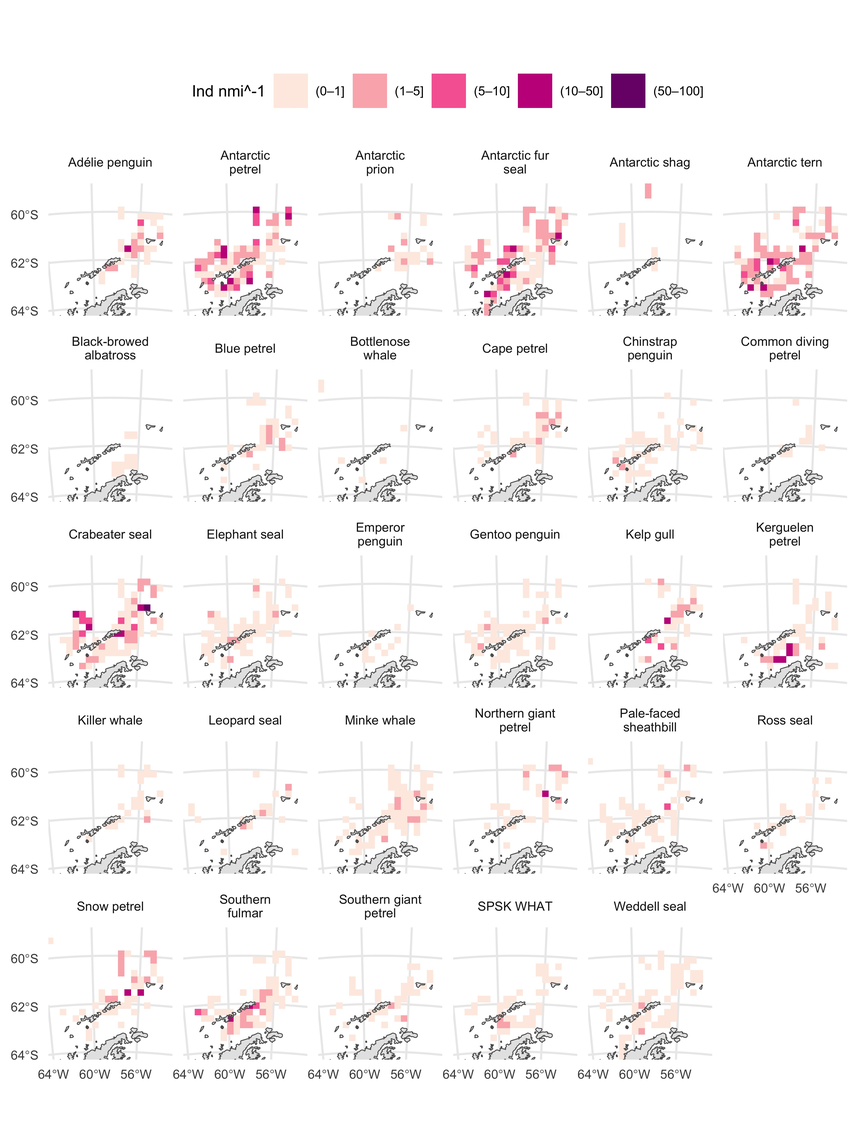
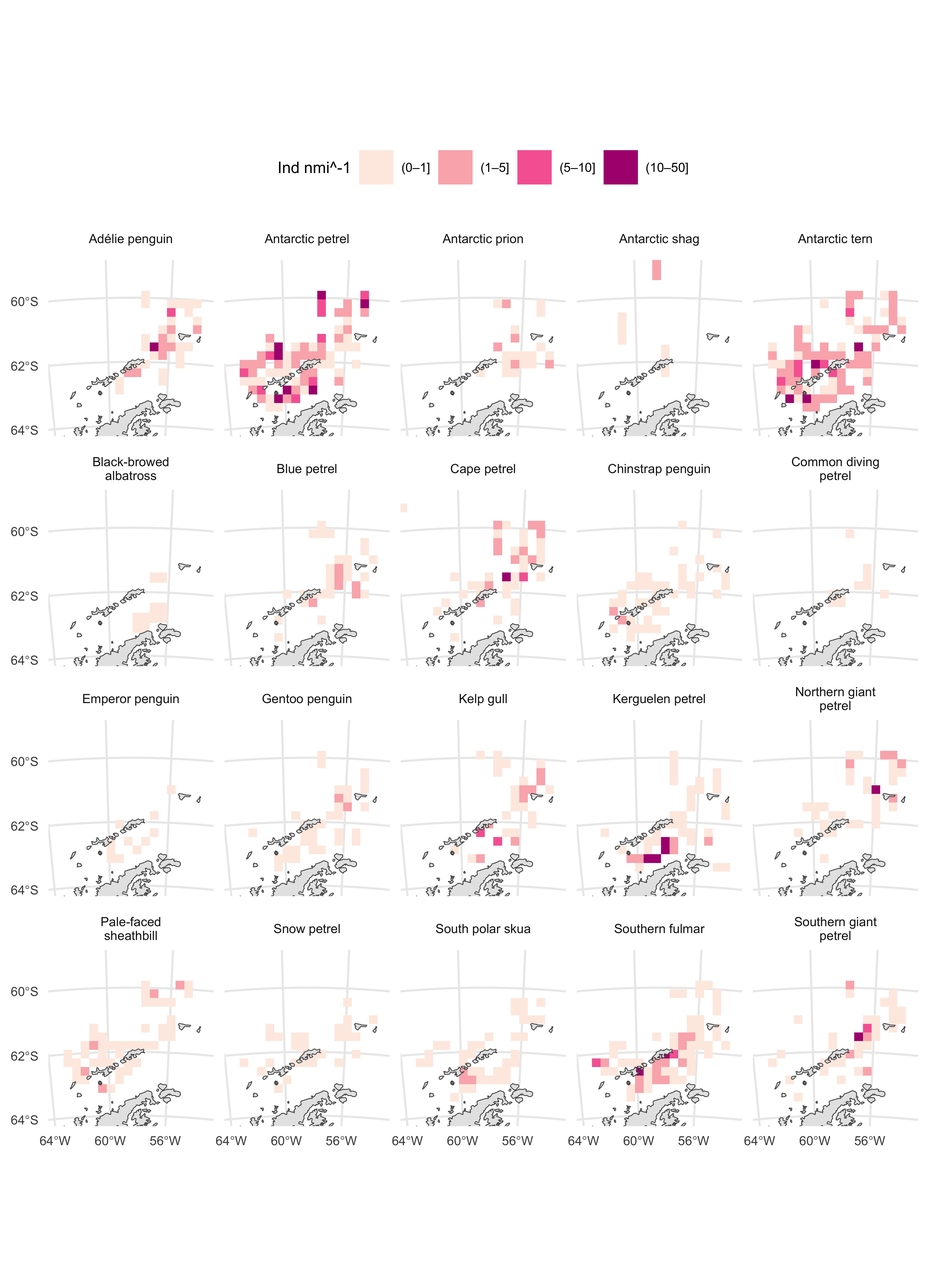
figs s1 and s2

diff --git a/docs/01_predators.html b/docs/01_predators.html
@@ -2,7 +2,7 @@
 <html xmlns="http://www.w3.org/1999/xhtml" lang="en" xml:lang="en"><head>
 
 <meta charset="utf-8">
-<meta name="generator" content="quarto-1.3.353">
+<meta name="generator" content="quarto-1.3.433">
 
 <meta name="viewport" content="width=device-width, initial-scale=1.0, user-scalable=yes">
 
@@ -360,56 +360,148 @@ pre > code.sourceCode > span > a:first-child::before { text-decoration: underlin
 <p><img src="01_predators_files/figure-html/soi_map-1.png" class="img-fluid" style="width:100.0%"></p>
 </div>
 </div>
-<p>Distribution maps of all species in all years, for supplemental.</p>
-<div class="cell page-columns page-full" data-fig.dpi="600">
+<p>Distribution maps of all species in all years, for supplemental. Organized by mammals and birds</p>
+<div class="cell">
 <details>
 <summary>Code</summary>
 <div class="sourceCode cell-code" id="cb8"><pre class="sourceCode r code-with-copy"><code class="sourceCode r"><span id="cb8-1"><a href="#cb8-1" aria-hidden="true" tabindex="-1"></a>pred_sf <span class="ot">&lt;-</span> predators_agg <span class="sc">%&gt;%</span> </span>
-<span id="cb8-2"><a href="#cb8-2" aria-hidden="true" tabindex="-1"></a>  <span class="fu">latlon_to_sf</span>(<span class="at">coords =</span> <span class="fu">c</span>(<span class="st">"lon_mean"</span>, <span class="st">"lat_mean"</span>))</span>
-<span id="cb8-3"><a href="#cb8-3" aria-hidden="true" tabindex="-1"></a></span>
-<span id="cb8-4"><a href="#cb8-4" aria-hidden="true" tabindex="-1"></a>pred_rast <span class="ot">&lt;-</span> pred_sf <span class="sc">%&gt;%</span> </span>
-<span id="cb8-5"><a href="#cb8-5" aria-hidden="true" tabindex="-1"></a>  <span class="fu">st_transform</span>(<span class="fu">ant_proj</span>()) <span class="sc">%&gt;%</span> </span>
-<span id="cb8-6"><a href="#cb8-6" aria-hidden="true" tabindex="-1"></a>  <span class="fu">mutate</span>(<span class="at">year_species =</span> <span class="fu">interaction</span>(year, species)) <span class="sc">%&gt;%</span> </span>
-<span id="cb8-7"><a href="#cb8-7" aria-hidden="true" tabindex="-1"></a>  <span class="fu">rasterize</span>(rast_template, </span>
-<span id="cb8-8"><a href="#cb8-8" aria-hidden="true" tabindex="-1"></a>            <span class="at">field =</span> <span class="st">"count"</span>,</span>
-<span id="cb8-9"><a href="#cb8-9" aria-hidden="true" tabindex="-1"></a>            <span class="at">by =</span> <span class="st">"year_species"</span>,</span>
-<span id="cb8-10"><a href="#cb8-10" aria-hidden="true" tabindex="-1"></a>            <span class="at">fun =</span> sum)</span>
-<span id="cb8-11"><a href="#cb8-11" aria-hidden="true" tabindex="-1"></a></span>
-<span id="cb8-12"><a href="#cb8-12" aria-hidden="true" tabindex="-1"></a>map_bbox <span class="ot">&lt;-</span> <span class="fu">ext</span>(<span class="sc">-</span><span class="dv">63</span>, <span class="sc">-</span><span class="dv">54</span>, <span class="sc">-</span><span class="dv">64</span>, <span class="sc">-</span><span class="dv">59</span>) <span class="sc">%&gt;%</span> </span>
-<span id="cb8-13"><a href="#cb8-13" aria-hidden="true" tabindex="-1"></a>  <span class="fu">project</span>(<span class="at">from =</span> <span class="st">"+proj=longlat +datum=WGS84"</span>,</span>
-<span id="cb8-14"><a href="#cb8-14" aria-hidden="true" tabindex="-1"></a>          <span class="at">to =</span> <span class="fu">as.character</span>(<span class="fu">ant_proj</span>())[[<span class="dv">1</span>]])</span>
-<span id="cb8-15"><a href="#cb8-15" aria-hidden="true" tabindex="-1"></a></span>
-<span id="cb8-16"><a href="#cb8-16" aria-hidden="true" tabindex="-1"></a>pred_class <span class="ot">&lt;-</span> pred_rast <span class="sc">%&gt;%</span> </span>
-<span id="cb8-17"><a href="#cb8-17" aria-hidden="true" tabindex="-1"></a>  <span class="fu">classify</span>(<span class="at">rcl =</span> <span class="fu">c</span>(<span class="dv">0</span>, <span class="dv">1</span>, <span class="dv">5</span>, <span class="dv">10</span>, <span class="dv">50</span>, <span class="dv">100</span>, <span class="dv">1000</span>))</span>
-<span id="cb8-18"><a href="#cb8-18" aria-hidden="true" tabindex="-1"></a></span>
-<span id="cb8-19"><a href="#cb8-19" aria-hidden="true" tabindex="-1"></a>pred_class_df <span class="ot">&lt;-</span> <span class="fu">as.data.frame</span>(pred_class, <span class="at">xy =</span> <span class="cn">TRUE</span>) <span class="sc">%&gt;%</span> </span>
-<span id="cb8-20"><a href="#cb8-20" aria-hidden="true" tabindex="-1"></a>  <span class="fu">pivot_longer</span>(<span class="sc">-</span><span class="fu">c</span>(<span class="st">"x"</span>, <span class="st">"y"</span>), </span>
-<span id="cb8-21"><a href="#cb8-21" aria-hidden="true" tabindex="-1"></a>               <span class="at">names_to =</span> <span class="st">"name"</span>, </span>
-<span id="cb8-22"><a href="#cb8-22" aria-hidden="true" tabindex="-1"></a>               <span class="at">values_to =</span> <span class="st">"count"</span>) <span class="sc">%&gt;%</span> </span>
-<span id="cb8-23"><a href="#cb8-23" aria-hidden="true" tabindex="-1"></a>  <span class="fu">separate_wider_delim</span>(name, </span>
-<span id="cb8-24"><a href="#cb8-24" aria-hidden="true" tabindex="-1"></a>                       <span class="at">delim =</span> <span class="st">"."</span>, </span>
-<span id="cb8-25"><a href="#cb8-25" aria-hidden="true" tabindex="-1"></a>                       <span class="at">names =</span> <span class="fu">c</span>(<span class="st">"year"</span>, <span class="st">"species"</span>)) <span class="sc">%&gt;%</span> </span>
-<span id="cb8-26"><a href="#cb8-26" aria-hidden="true" tabindex="-1"></a>  <span class="fu">drop_na</span>(count)</span>
-<span id="cb8-27"><a href="#cb8-27" aria-hidden="true" tabindex="-1"></a></span>
-<span id="cb8-28"><a href="#cb8-28" aria-hidden="true" tabindex="-1"></a><span class="fu">ant_basemap</span>() <span class="sc">+</span></span>
-<span id="cb8-29"><a href="#cb8-29" aria-hidden="true" tabindex="-1"></a>  <span class="fu">geom_raster</span>(<span class="fu">aes</span>(x, y, <span class="at">fill =</span> count), pred_class_df) <span class="sc">+</span></span>
-<span id="cb8-30"><a href="#cb8-30" aria-hidden="true" tabindex="-1"></a>  <span class="fu">geom_sf</span>(<span class="at">data =</span> <span class="fu">tar_read</span>(<span class="st">"ant_sf"</span>, <span class="at">store =</span> here<span class="sc">::</span><span class="fu">here</span>(<span class="st">"_targets"</span>))) <span class="sc">+</span></span>
-<span id="cb8-31"><a href="#cb8-31" aria-hidden="true" tabindex="-1"></a>  <span class="fu">scale_fill_brewer</span>(<span class="at">palette =</span> <span class="st">"RdPu"</span>, </span>
-<span id="cb8-32"><a href="#cb8-32" aria-hidden="true" tabindex="-1"></a>                    <span class="at">na.value =</span> <span class="cn">NA</span>, </span>
-<span id="cb8-33"><a href="#cb8-33" aria-hidden="true" tabindex="-1"></a>                    <span class="at">direction =</span> <span class="dv">1</span>,</span>
-<span id="cb8-34"><a href="#cb8-34" aria-hidden="true" tabindex="-1"></a>                    <span class="at">na.translate =</span> <span class="cn">FALSE</span>) <span class="sc">+</span></span>
-<span id="cb8-35"><a href="#cb8-35" aria-hidden="true" tabindex="-1"></a>  <span class="fu">scale_x_continuous</span>(<span class="at">breaks =</span> <span class="fu">seq</span>(<span class="sc">-</span><span class="dv">64</span>, <span class="sc">-</span><span class="dv">54</span>, <span class="at">by =</span> <span class="dv">4</span>)) <span class="sc">+</span></span>
-<span id="cb8-36"><a href="#cb8-36" aria-hidden="true" tabindex="-1"></a>  <span class="fu">scale_y_continuous</span>(<span class="at">breaks =</span> <span class="fu">seq</span>(<span class="sc">-</span><span class="dv">64</span>, <span class="sc">-</span><span class="dv">59</span>, <span class="at">by =</span> <span class="dv">2</span>)) <span class="sc">+</span></span>
-<span id="cb8-37"><a href="#cb8-37" aria-hidden="true" tabindex="-1"></a>  <span class="fu">labs</span>(<span class="at">fill =</span> <span class="st">"Ind nmi^-1"</span>) <span class="sc">+</span></span>
-<span id="cb8-38"><a href="#cb8-38" aria-hidden="true" tabindex="-1"></a>  <span class="fu">facet_grid</span>(species <span class="sc">~</span> year) <span class="sc">+</span></span>
-<span id="cb8-39"><a href="#cb8-39" aria-hidden="true" tabindex="-1"></a>  <span class="fu">coord_sf</span>(<span class="at">xlim =</span> map_bbox[<span class="dv">1</span><span class="sc">:</span><span class="dv">2</span>],</span>
-<span id="cb8-40"><a href="#cb8-40" aria-hidden="true" tabindex="-1"></a>           <span class="at">ylim =</span> map_bbox[<span class="dv">3</span><span class="sc">:</span><span class="dv">4</span>],</span>
-<span id="cb8-41"><a href="#cb8-41" aria-hidden="true" tabindex="-1"></a>           <span class="at">crs =</span> <span class="fu">ant_proj</span>()) <span class="sc">+</span></span>
-<span id="cb8-42"><a href="#cb8-42" aria-hidden="true" tabindex="-1"></a>  <span class="fu">theme</span>(<span class="at">legend.position =</span> <span class="st">"right"</span>,</span>
-<span id="cb8-43"><a href="#cb8-43" aria-hidden="true" tabindex="-1"></a>        <span class="at">text =</span> <span class="fu">element_text</span>(<span class="at">size =</span> <span class="dv">8</span>))</span></code><button title="Copy to Clipboard" class="code-copy-button"><i class="bi"></i></button></pre></div>
+<span id="cb8-2"><a href="#cb8-2" aria-hidden="true" tabindex="-1"></a>  <span class="fu">filter</span>(<span class="sc">!</span><span class="fu">str_starts</span>(species, <span class="st">"U"</span>)) <span class="sc">%&gt;%</span> </span>
+<span id="cb8-3"><a href="#cb8-3" aria-hidden="true" tabindex="-1"></a>  <span class="fu">mutate</span>(<span class="at">common_name =</span> <span class="fu">code_to_common</span>(species)) <span class="sc">%&gt;%</span> </span>
+<span id="cb8-4"><a href="#cb8-4" aria-hidden="true" tabindex="-1"></a>  <span class="fu">latlon_to_sf</span>(<span class="at">coords =</span> <span class="fu">c</span>(<span class="st">"lon_mean"</span>, <span class="st">"lat_mean"</span>))</span>
+<span id="cb8-5"><a href="#cb8-5" aria-hidden="true" tabindex="-1"></a></span>
+<span id="cb8-6"><a href="#cb8-6" aria-hidden="true" tabindex="-1"></a>pred_rast <span class="ot">&lt;-</span> pred_sf <span class="sc">%&gt;%</span> </span>
+<span id="cb8-7"><a href="#cb8-7" aria-hidden="true" tabindex="-1"></a>  <span class="fu">st_transform</span>(<span class="fu">ant_proj</span>()) <span class="sc">%&gt;%</span> </span>
+<span id="cb8-8"><a href="#cb8-8" aria-hidden="true" tabindex="-1"></a>  <span class="fu">mutate</span>(<span class="at">year_commonname =</span> <span class="fu">interaction</span>(year, common_name)) <span class="sc">%&gt;%</span> </span>
+<span id="cb8-9"><a href="#cb8-9" aria-hidden="true" tabindex="-1"></a>  <span class="fu">rasterize</span>(rast_template, </span>
+<span id="cb8-10"><a href="#cb8-10" aria-hidden="true" tabindex="-1"></a>            <span class="at">field =</span> <span class="st">"count"</span>,</span>
+<span id="cb8-11"><a href="#cb8-11" aria-hidden="true" tabindex="-1"></a>            <span class="at">by =</span> <span class="st">"year_commonname"</span>,</span>
+<span id="cb8-12"><a href="#cb8-12" aria-hidden="true" tabindex="-1"></a>            <span class="at">fun =</span> sum)</span>
+<span id="cb8-13"><a href="#cb8-13" aria-hidden="true" tabindex="-1"></a></span>
+<span id="cb8-14"><a href="#cb8-14" aria-hidden="true" tabindex="-1"></a><span class="co"># Normalize counts by effort</span></span>
+<span id="cb8-15"><a href="#cb8-15" aria-hidden="true" tabindex="-1"></a>pred_norm <span class="ot">&lt;-</span> pred_rast</span>
+<span id="cb8-16"><a href="#cb8-16" aria-hidden="true" tabindex="-1"></a><span class="cf">for</span> (i <span class="cf">in</span> <span class="fu">seq</span>(<span class="fu">nlyr</span>(pred_rast))) {</span>
+<span id="cb8-17"><a href="#cb8-17" aria-hidden="true" tabindex="-1"></a>  lyr_name <span class="ot">&lt;-</span> <span class="fu">names</span>(pred_rast)[i]</span>
+<span id="cb8-18"><a href="#cb8-18" aria-hidden="true" tabindex="-1"></a>  lyr_year <span class="ot">&lt;-</span> <span class="fu">substr</span>(lyr_name, <span class="dv">1</span>, <span class="dv">4</span>)</span>
+<span id="cb8-19"><a href="#cb8-19" aria-hidden="true" tabindex="-1"></a>  effort_year <span class="ot">&lt;-</span> effort_rast[lyr_year] <span class="sc">%&gt;%</span> </span>
+<span id="cb8-20"><a href="#cb8-20" aria-hidden="true" tabindex="-1"></a>    <span class="fu">subst</span>(<span class="dv">0</span>, <span class="cn">NA</span>)</span>
+<span id="cb8-21"><a href="#cb8-21" aria-hidden="true" tabindex="-1"></a>  pred_norm[[i]] <span class="ot">&lt;-</span> pred_norm[[i]] <span class="sc">/</span> effort_year</span>
+<span id="cb8-22"><a href="#cb8-22" aria-hidden="true" tabindex="-1"></a>}</span>
+<span id="cb8-23"><a href="#cb8-23" aria-hidden="true" tabindex="-1"></a><span class="co"># Average across years</span></span>
+<span id="cb8-24"><a href="#cb8-24" aria-hidden="true" tabindex="-1"></a>pred_climatology <span class="ot">&lt;-</span> <span class="fu">unique</span>(<span class="fu">code_to_common</span>(pred_sf<span class="sc">$</span>species)) <span class="sc">%&gt;%</span> </span>
+<span id="cb8-25"><a href="#cb8-25" aria-hidden="true" tabindex="-1"></a>  <span class="fu">map</span>(<span class="cf">function</span>(sp) {</span>
+<span id="cb8-26"><a href="#cb8-26" aria-hidden="true" tabindex="-1"></a>    sp_rast <span class="ot">&lt;-</span> <span class="fu">subset</span>(pred_norm, </span>
+<span id="cb8-27"><a href="#cb8-27" aria-hidden="true" tabindex="-1"></a>                      <span class="fu">which</span>(<span class="fu">str_detect</span>(<span class="fu">names</span>(pred_norm), sp)))</span>
+<span id="cb8-28"><a href="#cb8-28" aria-hidden="true" tabindex="-1"></a>    <span class="fu">mean</span>(sp_rast, <span class="at">na.rm =</span> <span class="cn">TRUE</span>)</span>
+<span id="cb8-29"><a href="#cb8-29" aria-hidden="true" tabindex="-1"></a>  }) <span class="sc">%&gt;%</span> </span>
+<span id="cb8-30"><a href="#cb8-30" aria-hidden="true" tabindex="-1"></a>  <span class="fu">set_names</span>(<span class="fu">unique</span>(pred_sf<span class="sc">$</span>common_name)) <span class="sc">%&gt;%</span> </span>
+<span id="cb8-31"><a href="#cb8-31" aria-hidden="true" tabindex="-1"></a>  <span class="fu">rast</span>()</span>
+<span id="cb8-32"><a href="#cb8-32" aria-hidden="true" tabindex="-1"></a></span>
+<span id="cb8-33"><a href="#cb8-33" aria-hidden="true" tabindex="-1"></a>map_bbox <span class="ot">&lt;-</span> <span class="fu">ext</span>(<span class="sc">-</span><span class="dv">63</span>, <span class="sc">-</span><span class="dv">54</span>, <span class="sc">-</span><span class="dv">64</span>, <span class="sc">-</span><span class="dv">59</span>) <span class="sc">%&gt;%</span> </span>
+<span id="cb8-34"><a href="#cb8-34" aria-hidden="true" tabindex="-1"></a>  <span class="fu">project</span>(<span class="at">from =</span> <span class="st">"+proj=longlat +datum=WGS84"</span>,</span>
+<span id="cb8-35"><a href="#cb8-35" aria-hidden="true" tabindex="-1"></a>          <span class="at">to =</span> <span class="fu">as.character</span>(<span class="fu">ant_proj</span>())[[<span class="dv">1</span>]])</span>
+<span id="cb8-36"><a href="#cb8-36" aria-hidden="true" tabindex="-1"></a></span>
+<span id="cb8-37"><a href="#cb8-37" aria-hidden="true" tabindex="-1"></a>pred_class <span class="ot">&lt;-</span> pred_climatology <span class="sc">%&gt;%</span> </span>
+<span id="cb8-38"><a href="#cb8-38" aria-hidden="true" tabindex="-1"></a>  <span class="fu">classify</span>(<span class="at">rcl =</span> <span class="fu">c</span>(<span class="dv">0</span>, <span class="dv">1</span>, <span class="dv">5</span>, <span class="dv">10</span>, <span class="dv">50</span>, <span class="dv">100</span>, <span class="dv">1000</span>))</span>
+<span id="cb8-39"><a href="#cb8-39" aria-hidden="true" tabindex="-1"></a></span>
+<span id="cb8-40"><a href="#cb8-40" aria-hidden="true" tabindex="-1"></a>pred_class_df <span class="ot">&lt;-</span> <span class="fu">as.data.frame</span>(pred_class, <span class="at">xy =</span> <span class="cn">TRUE</span>) <span class="sc">%&gt;%</span> </span>
+<span id="cb8-41"><a href="#cb8-41" aria-hidden="true" tabindex="-1"></a>  <span class="fu">pivot_longer</span>(<span class="sc">-</span><span class="fu">c</span>(<span class="st">"x"</span>, <span class="st">"y"</span>), </span>
+<span id="cb8-42"><a href="#cb8-42" aria-hidden="true" tabindex="-1"></a>               <span class="at">names_to =</span> <span class="st">"name"</span>, </span>
+<span id="cb8-43"><a href="#cb8-43" aria-hidden="true" tabindex="-1"></a>               <span class="at">values_to =</span> <span class="st">"count"</span>) <span class="sc">%&gt;%</span> </span>
+<span id="cb8-44"><a href="#cb8-44" aria-hidden="true" tabindex="-1"></a>  <span class="fu">drop_na</span>(count) <span class="sc">%&gt;%</span> </span>
+<span id="cb8-45"><a href="#cb8-45" aria-hidden="true" tabindex="-1"></a>  <span class="fu">mutate</span>(<span class="at">name =</span> <span class="fu">map_chr</span>(name, \(n) <span class="fu">paste</span>(<span class="fu">strwrap</span>(n, <span class="dv">20</span>), <span class="at">collapse =</span> <span class="st">"</span><span class="sc">\n</span><span class="st">"</span>)))</span></code><button title="Copy to Clipboard" class="code-copy-button"><i class="bi"></i></button></pre></div>
+</details>
+</div>
+<div class="cell page-columns page-full" data-fig.dpi="600">
+<details>
+<summary>Code</summary>
+<div class="sourceCode cell-code" id="cb9"><pre class="sourceCode r code-with-copy"><code class="sourceCode r"><span id="cb9-1"><a href="#cb9-1" aria-hidden="true" tabindex="-1"></a>bird_class_df <span class="ot">&lt;-</span> pred_class_df <span class="sc">%&gt;%</span> </span>
+<span id="cb9-2"><a href="#cb9-2" aria-hidden="true" tabindex="-1"></a>  <span class="fu">semi_join</span>(<span class="fu">tibble</span>(<span class="at">name =</span> <span class="fu">c</span>(</span>
+<span id="cb9-3"><a href="#cb9-3" aria-hidden="true" tabindex="-1"></a>    <span class="st">"Blue petrel"</span>,</span>
+<span id="cb9-4"><a href="#cb9-4" aria-hidden="true" tabindex="-1"></a>    <span class="st">"Antarctic shag"</span>,</span>
+<span id="cb9-5"><a href="#cb9-5" aria-hidden="true" tabindex="-1"></a>    <span class="st">"Cape petrel"</span>,</span>
+<span id="cb9-6"><a href="#cb9-6" aria-hidden="true" tabindex="-1"></a>    <span class="st">"Kelp gull"</span>,</span>
+<span id="cb9-7"><a href="#cb9-7" aria-hidden="true" tabindex="-1"></a>    <span class="st">"Antarctic petrel"</span>,</span>
+<span id="cb9-8"><a href="#cb9-8" aria-hidden="true" tabindex="-1"></a>    <span class="st">"Southern giant</span><span class="sc">\n</span><span class="st">petrel"</span>,</span>
+<span id="cb9-9"><a href="#cb9-9" aria-hidden="true" tabindex="-1"></a>    <span class="st">"Adélie penguin"</span>,</span>
+<span id="cb9-10"><a href="#cb9-10" aria-hidden="true" tabindex="-1"></a>    <span class="st">"Kerguelen petrel"</span>,</span>
+<span id="cb9-11"><a href="#cb9-11" aria-hidden="true" tabindex="-1"></a>    <span class="st">"Gentoo penguin"</span>,</span>
+<span id="cb9-12"><a href="#cb9-12" aria-hidden="true" tabindex="-1"></a>    <span class="st">"Antarctic tern"</span>,</span>
+<span id="cb9-13"><a href="#cb9-13" aria-hidden="true" tabindex="-1"></a>    <span class="st">"Northern giant</span><span class="sc">\n</span><span class="st">petrel"</span>,</span>
+<span id="cb9-14"><a href="#cb9-14" aria-hidden="true" tabindex="-1"></a>    <span class="st">"Pale-faced</span><span class="sc">\n</span><span class="st">sheathbill"</span>,</span>
+<span id="cb9-15"><a href="#cb9-15" aria-hidden="true" tabindex="-1"></a>    <span class="st">"Chinstrap penguin"</span>,</span>
+<span id="cb9-16"><a href="#cb9-16" aria-hidden="true" tabindex="-1"></a>    <span class="st">"Southern fulmar"</span>,</span>
+<span id="cb9-17"><a href="#cb9-17" aria-hidden="true" tabindex="-1"></a>    <span class="st">"Antarctic prion"</span>,</span>
+<span id="cb9-18"><a href="#cb9-18" aria-hidden="true" tabindex="-1"></a>    <span class="st">"Common diving</span><span class="sc">\n</span><span class="st">petrel"</span>,</span>
+<span id="cb9-19"><a href="#cb9-19" aria-hidden="true" tabindex="-1"></a>    <span class="st">"South polar skua"</span>,</span>
+<span id="cb9-20"><a href="#cb9-20" aria-hidden="true" tabindex="-1"></a>    <span class="st">"Snow petrel"</span>,</span>
+<span id="cb9-21"><a href="#cb9-21" aria-hidden="true" tabindex="-1"></a>    <span class="st">"Emperor penguin"</span>,</span>
+<span id="cb9-22"><a href="#cb9-22" aria-hidden="true" tabindex="-1"></a>    <span class="st">"Black-browed</span><span class="sc">\n</span><span class="st">albatross"</span></span>
+<span id="cb9-23"><a href="#cb9-23" aria-hidden="true" tabindex="-1"></a>  )), <span class="at">by =</span> <span class="st">"name"</span>) </span>
+<span id="cb9-24"><a href="#cb9-24" aria-hidden="true" tabindex="-1"></a></span>
+<span id="cb9-25"><a href="#cb9-25" aria-hidden="true" tabindex="-1"></a>p <span class="ot">&lt;-</span> <span class="fu">ant_basemap</span>() <span class="sc">+</span></span>
+<span id="cb9-26"><a href="#cb9-26" aria-hidden="true" tabindex="-1"></a>  <span class="fu">geom_raster</span>(<span class="fu">aes</span>(x, y, <span class="at">fill =</span> count), bird_class_df) <span class="sc">+</span></span>
+<span id="cb9-27"><a href="#cb9-27" aria-hidden="true" tabindex="-1"></a>  <span class="fu">geom_sf</span>(<span class="at">data =</span> ant_sf) <span class="sc">+</span></span>
+<span id="cb9-28"><a href="#cb9-28" aria-hidden="true" tabindex="-1"></a>  <span class="fu">scale_fill_brewer</span>(<span class="at">palette =</span> <span class="st">"RdPu"</span>, </span>
+<span id="cb9-29"><a href="#cb9-29" aria-hidden="true" tabindex="-1"></a>                    <span class="at">na.value =</span> <span class="cn">NA</span>, </span>
+<span id="cb9-30"><a href="#cb9-30" aria-hidden="true" tabindex="-1"></a>                    <span class="at">direction =</span> <span class="dv">1</span>,</span>
+<span id="cb9-31"><a href="#cb9-31" aria-hidden="true" tabindex="-1"></a>                    <span class="at">na.translate =</span> <span class="cn">FALSE</span>) <span class="sc">+</span></span>
+<span id="cb9-32"><a href="#cb9-32" aria-hidden="true" tabindex="-1"></a>  <span class="fu">scale_x_continuous</span>(<span class="at">breaks =</span> <span class="fu">seq</span>(<span class="sc">-</span><span class="dv">64</span>, <span class="sc">-</span><span class="dv">54</span>, <span class="at">by =</span> <span class="dv">4</span>)) <span class="sc">+</span></span>
+<span id="cb9-33"><a href="#cb9-33" aria-hidden="true" tabindex="-1"></a>  <span class="fu">scale_y_continuous</span>(<span class="at">breaks =</span> <span class="fu">seq</span>(<span class="sc">-</span><span class="dv">64</span>, <span class="sc">-</span><span class="dv">59</span>, <span class="at">by =</span> <span class="dv">2</span>)) <span class="sc">+</span></span>
+<span id="cb9-34"><a href="#cb9-34" aria-hidden="true" tabindex="-1"></a>  <span class="fu">labs</span>(<span class="at">fill =</span> <span class="st">"Ind nmi^-1"</span>) <span class="sc">+</span></span>
+<span id="cb9-35"><a href="#cb9-35" aria-hidden="true" tabindex="-1"></a>  <span class="fu">facet_wrap</span>(<span class="sc">~</span> name, <span class="at">ncol =</span> <span class="dv">5</span>) <span class="sc">+</span></span>
+<span id="cb9-36"><a href="#cb9-36" aria-hidden="true" tabindex="-1"></a>  <span class="fu">coord_sf</span>(<span class="at">xlim =</span> map_bbox[<span class="dv">1</span><span class="sc">:</span><span class="dv">2</span>],</span>
+<span id="cb9-37"><a href="#cb9-37" aria-hidden="true" tabindex="-1"></a>           <span class="at">ylim =</span> map_bbox[<span class="dv">3</span><span class="sc">:</span><span class="dv">4</span>],</span>
+<span id="cb9-38"><a href="#cb9-38" aria-hidden="true" tabindex="-1"></a>           <span class="at">crs =</span> <span class="fu">ant_proj</span>()) <span class="sc">+</span></span>
+<span id="cb9-39"><a href="#cb9-39" aria-hidden="true" tabindex="-1"></a>  <span class="fu">theme</span>(<span class="at">legend.position =</span> <span class="st">"top"</span>,</span>
+<span id="cb9-40"><a href="#cb9-40" aria-hidden="true" tabindex="-1"></a>        <span class="at">text =</span> <span class="fu">element_text</span>(<span class="at">size =</span> <span class="dv">8</span>))</span>
+<span id="cb9-41"><a href="#cb9-41" aria-hidden="true" tabindex="-1"></a></span>
+<span id="cb9-42"><a href="#cb9-42" aria-hidden="true" tabindex="-1"></a><span class="fu">ggsave</span>(here<span class="sc">::</span><span class="fu">here</span>(<span class="st">"figs/s1.jpg"</span>), </span>
+<span id="cb9-43"><a href="#cb9-43" aria-hidden="true" tabindex="-1"></a>       p, </span>
+<span id="cb9-44"><a href="#cb9-44" aria-hidden="true" tabindex="-1"></a>       <span class="at">width =</span> <span class="fl">6.5</span>, </span>
+<span id="cb9-45"><a href="#cb9-45" aria-hidden="true" tabindex="-1"></a>       <span class="at">height =</span> <span class="dv">9</span>, </span>
+<span id="cb9-46"><a href="#cb9-46" aria-hidden="true" tabindex="-1"></a>       <span class="at">units =</span> <span class="st">"in"</span>, </span>
+<span id="cb9-47"><a href="#cb9-47" aria-hidden="true" tabindex="-1"></a>       <span class="at">dpi =</span> <span class="dv">600</span>)</span>
+<span id="cb9-48"><a href="#cb9-48" aria-hidden="true" tabindex="-1"></a></span>
+<span id="cb9-49"><a href="#cb9-49" aria-hidden="true" tabindex="-1"></a>p</span></code><button title="Copy to Clipboard" class="code-copy-button"><i class="bi"></i></button></pre></div>
 </details>
 <div class="cell-output-display column-screen">
-<p><img src="01_predators_files/figure-html/pred_map-1.png" class="img-fluid" style="width:100.0%"></p>
+<p><img src="01_predators_files/figure-html/bird_climatologies-1.png" class="img-fluid" style="width:100.0%"></p>
+</div>
+</div>
+<div class="cell page-columns page-full" data-fig.dpi="600">
+<details>
+<summary>Code</summary>
+<div class="sourceCode cell-code" id="cb10"><pre class="sourceCode r code-with-copy"><code class="sourceCode r"><span id="cb10-1"><a href="#cb10-1" aria-hidden="true" tabindex="-1"></a>mammal_class_df <span class="ot">&lt;-</span> pred_class_df <span class="sc">%&gt;%</span> </span>
+<span id="cb10-2"><a href="#cb10-2" aria-hidden="true" tabindex="-1"></a>  <span class="fu">anti_join</span>(bird_class_df, <span class="at">by =</span> <span class="st">"name"</span>) </span>
+<span id="cb10-3"><a href="#cb10-3" aria-hidden="true" tabindex="-1"></a></span>
+<span id="cb10-4"><a href="#cb10-4" aria-hidden="true" tabindex="-1"></a>p <span class="ot">&lt;-</span> <span class="fu">ant_basemap</span>() <span class="sc">+</span></span>
+<span id="cb10-5"><a href="#cb10-5" aria-hidden="true" tabindex="-1"></a>  <span class="fu">geom_raster</span>(<span class="fu">aes</span>(x, y, <span class="at">fill =</span> count), mammal_class_df) <span class="sc">+</span></span>
+<span id="cb10-6"><a href="#cb10-6" aria-hidden="true" tabindex="-1"></a>  <span class="fu">geom_sf</span>(<span class="at">data =</span> ant_sf) <span class="sc">+</span></span>
+<span id="cb10-7"><a href="#cb10-7" aria-hidden="true" tabindex="-1"></a>  <span class="fu">scale_fill_brewer</span>(<span class="at">palette =</span> <span class="st">"RdPu"</span>, </span>
+<span id="cb10-8"><a href="#cb10-8" aria-hidden="true" tabindex="-1"></a>                    <span class="at">na.value =</span> <span class="cn">NA</span>, </span>
+<span id="cb10-9"><a href="#cb10-9" aria-hidden="true" tabindex="-1"></a>                    <span class="at">direction =</span> <span class="dv">1</span>,</span>
+<span id="cb10-10"><a href="#cb10-10" aria-hidden="true" tabindex="-1"></a>                    <span class="at">na.translate =</span> <span class="cn">FALSE</span>) <span class="sc">+</span></span>
+<span id="cb10-11"><a href="#cb10-11" aria-hidden="true" tabindex="-1"></a>  <span class="fu">scale_x_continuous</span>(<span class="at">breaks =</span> <span class="fu">seq</span>(<span class="sc">-</span><span class="dv">64</span>, <span class="sc">-</span><span class="dv">54</span>, <span class="at">by =</span> <span class="dv">4</span>)) <span class="sc">+</span></span>
+<span id="cb10-12"><a href="#cb10-12" aria-hidden="true" tabindex="-1"></a>  <span class="fu">scale_y_continuous</span>(<span class="at">breaks =</span> <span class="fu">seq</span>(<span class="sc">-</span><span class="dv">64</span>, <span class="sc">-</span><span class="dv">59</span>, <span class="at">by =</span> <span class="dv">2</span>)) <span class="sc">+</span></span>
+<span id="cb10-13"><a href="#cb10-13" aria-hidden="true" tabindex="-1"></a>  <span class="fu">labs</span>(<span class="at">fill =</span> <span class="st">"Ind nmi^-1"</span>) <span class="sc">+</span></span>
+<span id="cb10-14"><a href="#cb10-14" aria-hidden="true" tabindex="-1"></a>  <span class="fu">facet_wrap</span>(<span class="sc">~</span> name, <span class="at">ncol =</span> <span class="dv">3</span>) <span class="sc">+</span></span>
+<span id="cb10-15"><a href="#cb10-15" aria-hidden="true" tabindex="-1"></a>  <span class="fu">coord_sf</span>(<span class="at">xlim =</span> map_bbox[<span class="dv">1</span><span class="sc">:</span><span class="dv">2</span>],</span>
+<span id="cb10-16"><a href="#cb10-16" aria-hidden="true" tabindex="-1"></a>           <span class="at">ylim =</span> map_bbox[<span class="dv">3</span><span class="sc">:</span><span class="dv">4</span>],</span>
+<span id="cb10-17"><a href="#cb10-17" aria-hidden="true" tabindex="-1"></a>           <span class="at">crs =</span> <span class="fu">ant_proj</span>()) <span class="sc">+</span></span>
+<span id="cb10-18"><a href="#cb10-18" aria-hidden="true" tabindex="-1"></a>  <span class="fu">theme</span>(<span class="at">legend.position =</span> <span class="st">"top"</span>,</span>
+<span id="cb10-19"><a href="#cb10-19" aria-hidden="true" tabindex="-1"></a>        <span class="at">text =</span> <span class="fu">element_text</span>(<span class="at">size =</span> <span class="dv">8</span>))</span>
+<span id="cb10-20"><a href="#cb10-20" aria-hidden="true" tabindex="-1"></a></span>
+<span id="cb10-21"><a href="#cb10-21" aria-hidden="true" tabindex="-1"></a><span class="fu">ggsave</span>(here<span class="sc">::</span><span class="fu">here</span>(<span class="st">"figs/s2.jpg"</span>), </span>
+<span id="cb10-22"><a href="#cb10-22" aria-hidden="true" tabindex="-1"></a>       p, </span>
+<span id="cb10-23"><a href="#cb10-23" aria-hidden="true" tabindex="-1"></a>       <span class="at">width =</span> <span class="fl">6.5</span>, </span>
+<span id="cb10-24"><a href="#cb10-24" aria-hidden="true" tabindex="-1"></a>       <span class="at">height =</span> <span class="dv">9</span>, </span>
+<span id="cb10-25"><a href="#cb10-25" aria-hidden="true" tabindex="-1"></a>       <span class="at">units =</span> <span class="st">"in"</span>, </span>
+<span id="cb10-26"><a href="#cb10-26" aria-hidden="true" tabindex="-1"></a>       <span class="at">dpi =</span> <span class="dv">600</span>)</span>
+<span id="cb10-27"><a href="#cb10-27" aria-hidden="true" tabindex="-1"></a></span>
+<span id="cb10-28"><a href="#cb10-28" aria-hidden="true" tabindex="-1"></a>p</span></code><button title="Copy to Clipboard" class="code-copy-button"><i class="bi"></i></button></pre></div>
+</details>
+<div class="cell-output-display column-screen">
+<p><img src="01_predators_files/figure-html/mammal_climatologies-1.png" class="img-fluid" style="width:100.0%"></p>
 </div>
 </div>
 </section>
